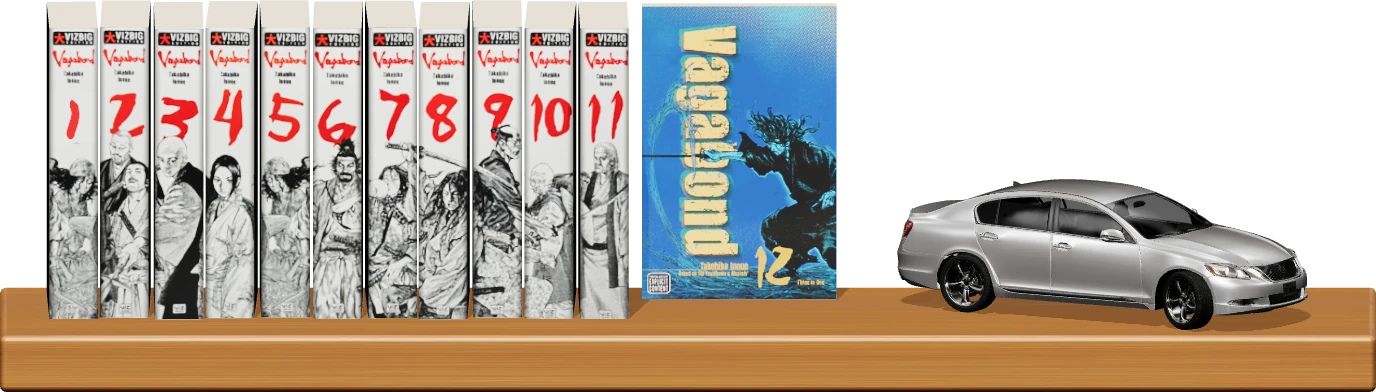
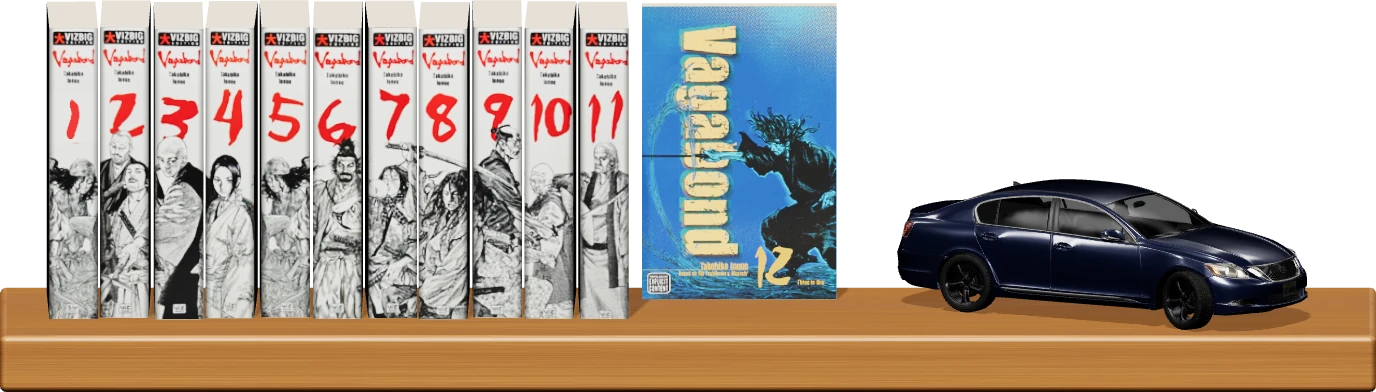
Paint the Lexus navy with dark wheels, add its road-trip note, fix the phone floor

Changed region(s): [[0.625, 0.4592, 0.9688, 0.8265]]

diff --git a/index.html b/index.html
@@ -788,6 +788,32 @@
         background: none;
       }
 
+      /* a little paper tag taped under the car */
+      .carnote {
+        position: absolute;
+        top: calc(100% + 6px);
+        transform: translateX(-50%) rotate(-3deg);
+        padding: 1px 9px 2px;
+        background: #fbf8f0;
+        box-shadow: 0 2px 4px rgba(40, 25, 10, 0.2);
+        font-family: var(--hand);
+        font-size: clamp(11px, 1vw, 16px);
+        white-space: nowrap;
+        color: #2a2a2a;
+        pointer-events: none;
+      }
+
+      .carnote::before {
+        content: "";
+        position: absolute;
+        top: -6px;
+        left: 50%;
+        width: 30px;
+        height: 10px;
+        transform: translateX(-50%) rotate(4deg);
+        background: rgba(132, 153, 125, 0.6);
+      }
+
       .carview {
         margin: 0;
         width: min(760px, 92vw);
@@ -2112,7 +2138,7 @@
         </div>
           <button class="wallpic" data-xp="project hoop" data-src="images/projects/hoop-2576.webp" data-cap="hoop house farm" data-desc="aeroponics, dutch buckets and other sustainable growing, on a field at my high school. the food went to a food shelter." data-href="hoop.html" style="--x:74%;--y:8%;--w:11%;--r:3deg"><img src="images/projects/hoop-2576.webp" alt="the hoop house farm" loading="lazy" /><span>hoop house farm</span></button>
           <button class="wallpic" data-xp="project drone" data-src="images/projects/drone.webp" data-cap="drone challenge" data-desc="an open-source quadcopter, built for a competition." data-href="drone.html" style="--x:6%;--y:16%;--w:10.5%;--r:-3deg"><img src="images/projects/drone.webp" alt="the quadcopter the team built" loading="lazy" /></button>
-        <div class="r3d shelf3d" style="left:28.82%;bottom:33.48%;width:25.29%;aspect-ratio:1376/392"><img loading="lazy" decoding="async" src="images/room/shelf-3d.webp" alt="an oak floating shelf with the vagabond vizbig set and a model lexus gs 350" /><button class="carhit" id="car" data-xp="lexus" aria-label="a model lexus gs 350; drag to spin it" style="left:63.41%;top:40.92%;width:33.63%;height:45.10%"></button></div>
+        <div class="r3d shelf3d" style="left:28.82%;bottom:33.48%;width:25.29%;aspect-ratio:1376/392"><img loading="lazy" decoding="async" src="images/room/shelf-3d.webp" alt="an oak floating shelf with the vagabond vizbig set and a model lexus gs 350" /><button class="carhit" id="car" data-xp="lexus" aria-label="a model lexus gs 350; drag to spin it" style="left:63.41%;top:40.92%;width:33.63%;height:45.10%"></button><span class="carnote" aria-hidden="true" style="left:80.22%">nyc → la, 34 hrs</span></div>
         <div class="r3d chair3d" style="left:0.70%;bottom:4.03%;width:28.20%;aspect-ratio:767/717">
           <img loading="lazy" decoding="async" src="images/room/chair-3d.webp" alt="an armchair" />
           <div class="rl" data-w="767"><button class="seal" id="seal" data-xp="seal" data-src="images/room/seal.webp" data-cap="" data-sticker aria-label="the seal" style="transform:matrix(0.71400,0.00000,0.00000,0.70705,157.00,121.29)"><img loading="lazy" decoding="async" src="images/room/seal.webp" alt="a chubby seal plush" /></button></div>
@@ -2572,9 +2598,6 @@
         const loader = new GLTFLoader();
         loader.setMeshoptDecoder(MeshoptDecoder);
         const car = (await loader.loadAsync("images/room/lexus.glb")).scene;
-        car.traverse((m) => {
-          if (m.isMesh && m.material.name === "Paint") Object.assign(m.material, { metalness: 0.6, roughness: 0.3 });
-        });
         const box = new THREE.Box3().setFromObject(car), c = box.getCenter(new THREE.Vector3()), sz = box.getSize(new THREE.Vector3());
         car.position.sub(c);
         scene.add(car);
